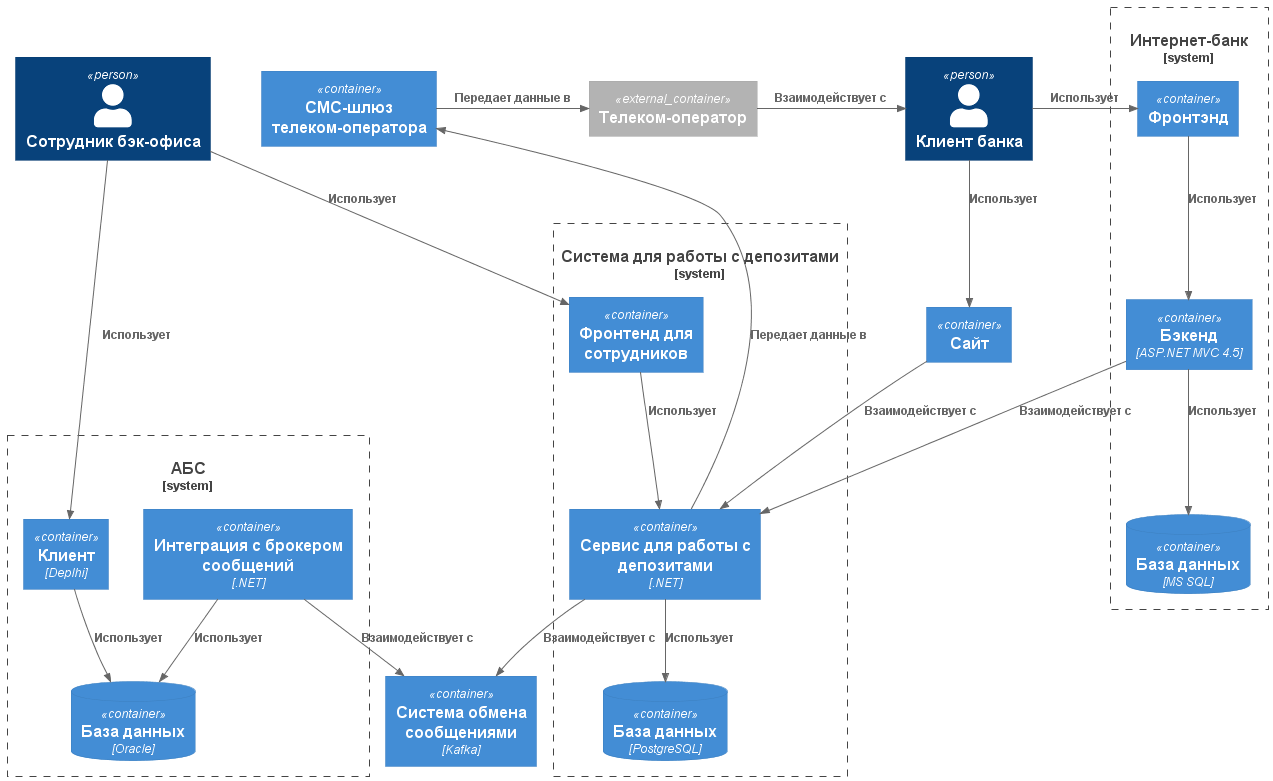
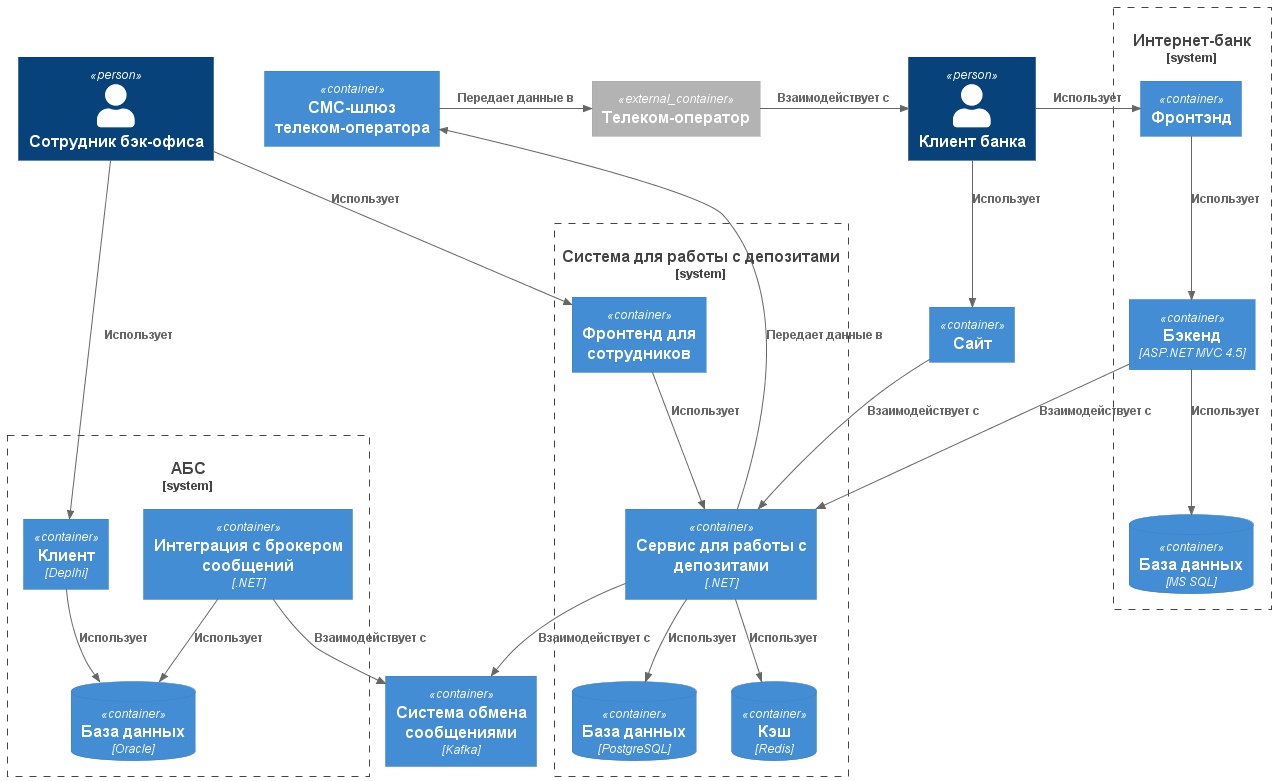
Дополнение ADR 3 задания

diff --git a/Task3/README.md b/Task3/README.md
@@ -13,17 +13,25 @@
 
 |**№**|**Требование**|
 | :-: | :- |
-| R1  | Доступность 24/7, 99.9% uptime |
-| R2  | Надежное хранение данных (бэкапы) |
+| R1  | Доступность 24/7, SLA 99.9%, SLO: downtime ≤ 43 сек/месяц |
+| R2  | RTO ≤ 15 минут, RPO ≤ 5 минут |
 | R3  | Резервирование в различных ЦОД |
-| R4  | Мониторинг |
-| P1  | Время отклика пользовательского интерфейса < 500мс |
-| P2  | Время выполнения операций < 1000мс  |
+| R4  | Backup policy: полный бэкап ежедневно, инкрементальный каждые 6 часов |
+| R5  | Мониторинг: сбор метрик (Prometheus), логирование (ELK), alerting в реальном времени |
+| R6  | Обработка отказов: graceful degradation, circuit breaker, retry logic (exponential backoff) |
+| R7  | Возможность горизонтального масштабирования для нового функционала |
+| P1  | Latency p50 < 100 мс, p95 < 300 мс, p99 < 500 мс |
+| P2  | Latency p50 < 200 мс, p95 < 600 мс, p99 < 1000 мс |
+| P3  | Throughput: минимум 1000 req/sec на endpoint депозитов |
+| P4  | Kafka: latency < 100 мс |
 | S1  | Использование существующих технологий банка |
 | S2  | Разработка технической документации |
+| S3  | Аудит: логирование всех операций с персональными данными |
 | +R1 | Запрет на прямое взаимодействие интернет-банка с АБС |
 | +R2 | Требуется шифрование при передаче персональных и платежных данных |
 | +R3 | При необходимости асинхронного взаимодействия - использовать Kafka |
+| +R4 | Обработка отказов Kafka |
+| +R5 | Защита от DDoS и других сетевых атак |
 
 ### <a name="_qmphm5d6rvi3"></a>**Решение**
 
@@ -47,15 +55,34 @@
 - Фронтенд для сотрудников.
 - Отдельную базу данных.
 
-В архитектуре выбран сервисный подход.
+Сервис обменивается данными с АБС через интеграционный слой и систему обмена сообщениями (Kafka).
+
+**Достоинства**:
+- Разделение ответственности
+- Надежное взаимодействие
+- Буферизация при сбоях
+- Снижение нагрузки на АБС
+- Соответствие требованиям (+R1, +R3)
 
 ### <a name="_bjrr7veeh80c"></a>**Альтернативы**
 
-Реализовать функционал непосредственно в интернет-банке.
-Производить общение напрямую с АБС.
+| № | Альтернатива | Описание | Достоинства | Недостатки |
+|---|---|---|---|---|
+| 1 | Встроить функционал в Интернет-банк | Добавить логику работы с депозитами непосредственно в существующее приложение Интернет-банка | • Минимум компонентов<br>• Нет задержек на координацию между сервисами | • Рост сложности Интернет-банка<br>• Сложнее тестировать<br>• Сложнее масштабировать |
+| 2 | Прямое синхронное взаимодействие сервиса с АБС | Сервис напрямую обращается к API/БД АБС для получения данных депозитов | • Минимум компонентов<br>• Простая реализация | • Риск перегрузки АБС<br>• Нарушает требование +R1<br>• Сложнее обеспечить отказоустойчивость<br>• Нет буферизации при сбоях АБС |
 
 **Недостатки, ограничения, риски**
 
-- Рост сложности системы за счет ввода новых сервисов.
-- Риск перегрузки АБС из-за синхронного варианта взаимодействия.
-- Процесс работы не автоматизирован (MVP).
+- Усложнение архитектуры
+- Консистентность данных (eventual consistency)
+- Необходимость обработки задержек
+- Автоматизация обработки заявок ограничена (требует участия сотрудника)
+
+| № | Риск | Описание | Меры по снижению |
+|---|---|---|---|
+| 1 | Перегрузка АБС | Синхронное взаимодействие может привести к перегрузке АБС при пиковых нагрузках | Использование асинхронного взаимодействия через Kafka |
+| 2 | Потеря данных в Kafka | Сообщения могут быть потеряны в случае критического отказа | Конфигурация Kafka с репликацией; сохранение данных в БД сервиса перед отправкой события |
+| 3 | Рассинхронизация данных | Асинхронное взаимодействие может привести к временной рассинхронизации между сервисом и АБС | Разработка функционала с учетом eventual consistency |
+| 4 | Недостаточная пропускная способность сервиса | При росте числа заявок сервис может стать узким местом | Горизонтальное масштабирование сервиса; использование кэширования; оптимизация БД |
+| 5 | Сбой интеграционного слоя | Если интеграционный слой недоступен, нарушается связь с АБС | Высокая доступность интеграционного слоя; резервирование; мониторинг |
+| 6 | Невалидные данные от клиента | Клиент может отправить невалидные или неполные данные | Валидация на фронтенде и бэкенде; обработка исключений в сервисе |
